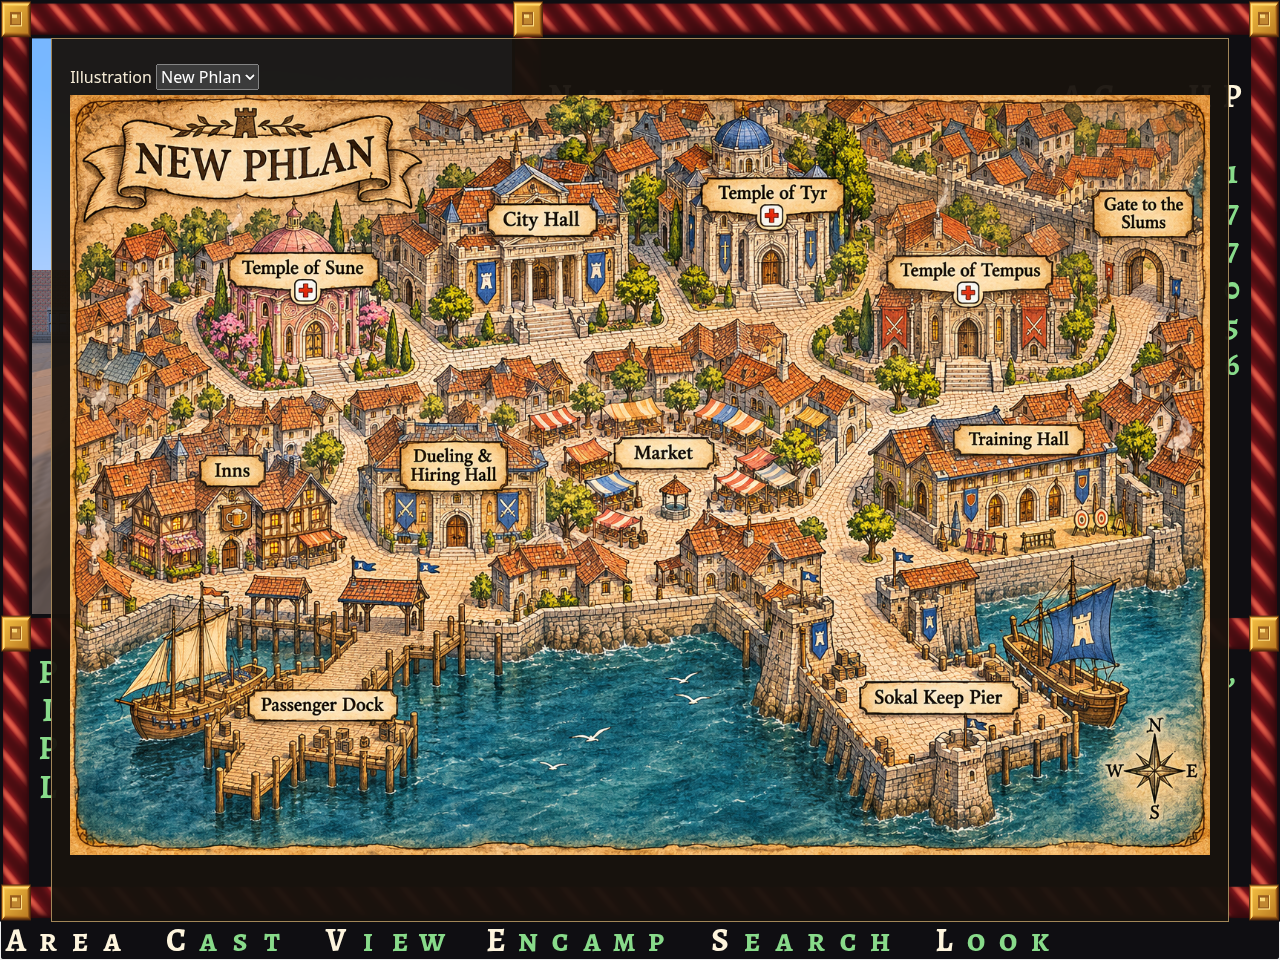
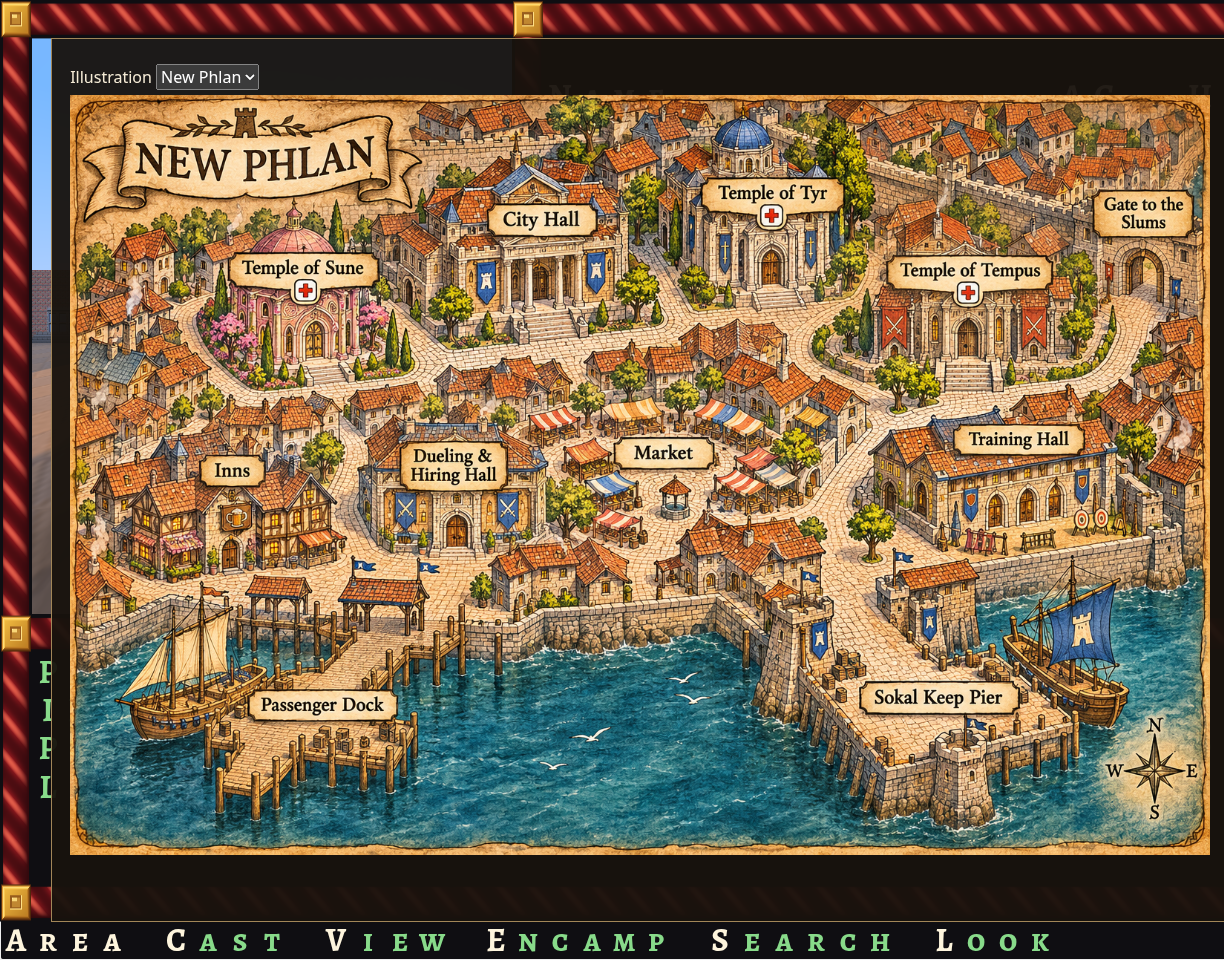
Add a filled Local automap shot to the README
Load a Slums save with 117 discovered tiles in the Electron app and
capture the Local automap. Crop the party-roster text off the right
edge of the New Phlan atlas screenshot.

diff --git a/README.md b/README.md
@@ -93,6 +93,8 @@ Open **Map** and you can leave the long walk behind. On the overland map, the il
 
 The same **Map** has a Local view: an automap that records each tile you stand on, with the walls the game drew there. It does not hand you the whole floor at the start. Interiors and underground are remembered as their own floors. **Mark location** labels the square you are in. Load a save, and the map comes back as it was.
 
+<img src="docs/readme/automap.png" width="800" alt="The Local automap in the desktop app, showing a well-explored floor of the Slums with the party marker on the discovered streets">
+
 <img src="docs/readme/moonsea.png" width="800" alt="Illustrated map of Phlan and the Moonsea, with destinations such as Valjevo Castle, Sokal Keep, and the Kobold Caves">
 
 <img src="docs/readme/new-phlan-atlas.png" width="800" alt="The illustrated atlas of New Phlan in the desktop app Map view, labeling City Hall, the temples, the docks, and the gate to the Slums">
